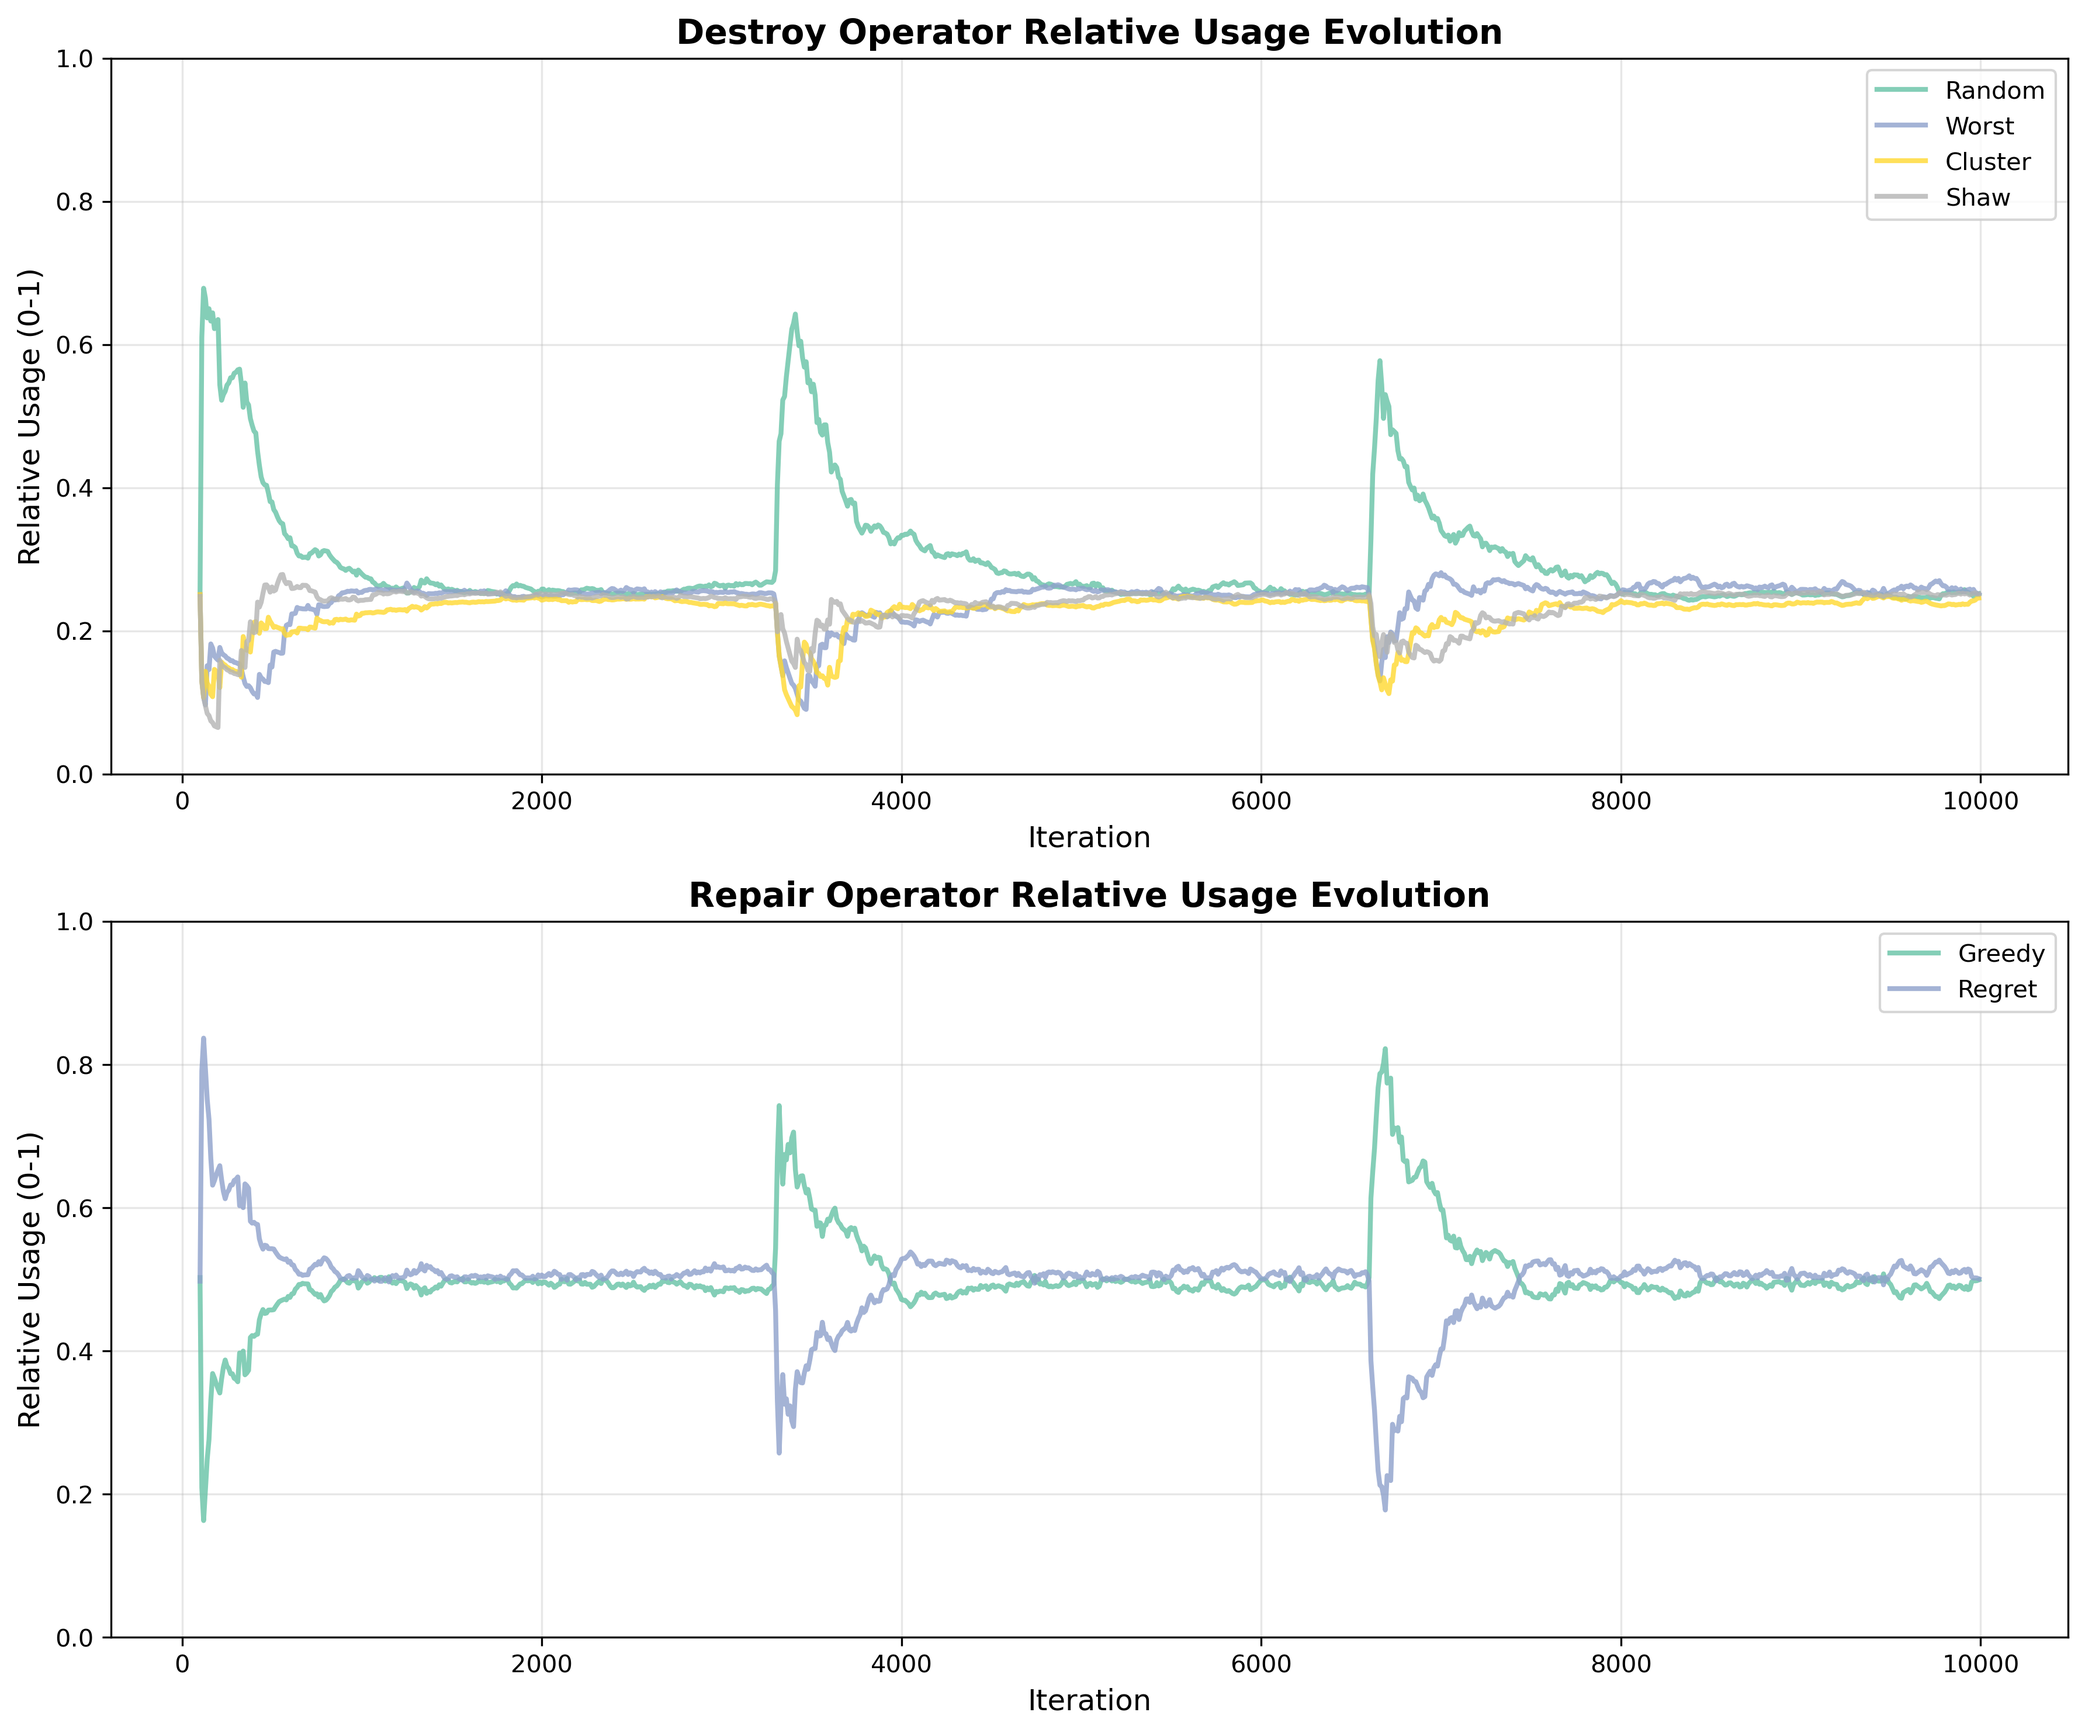
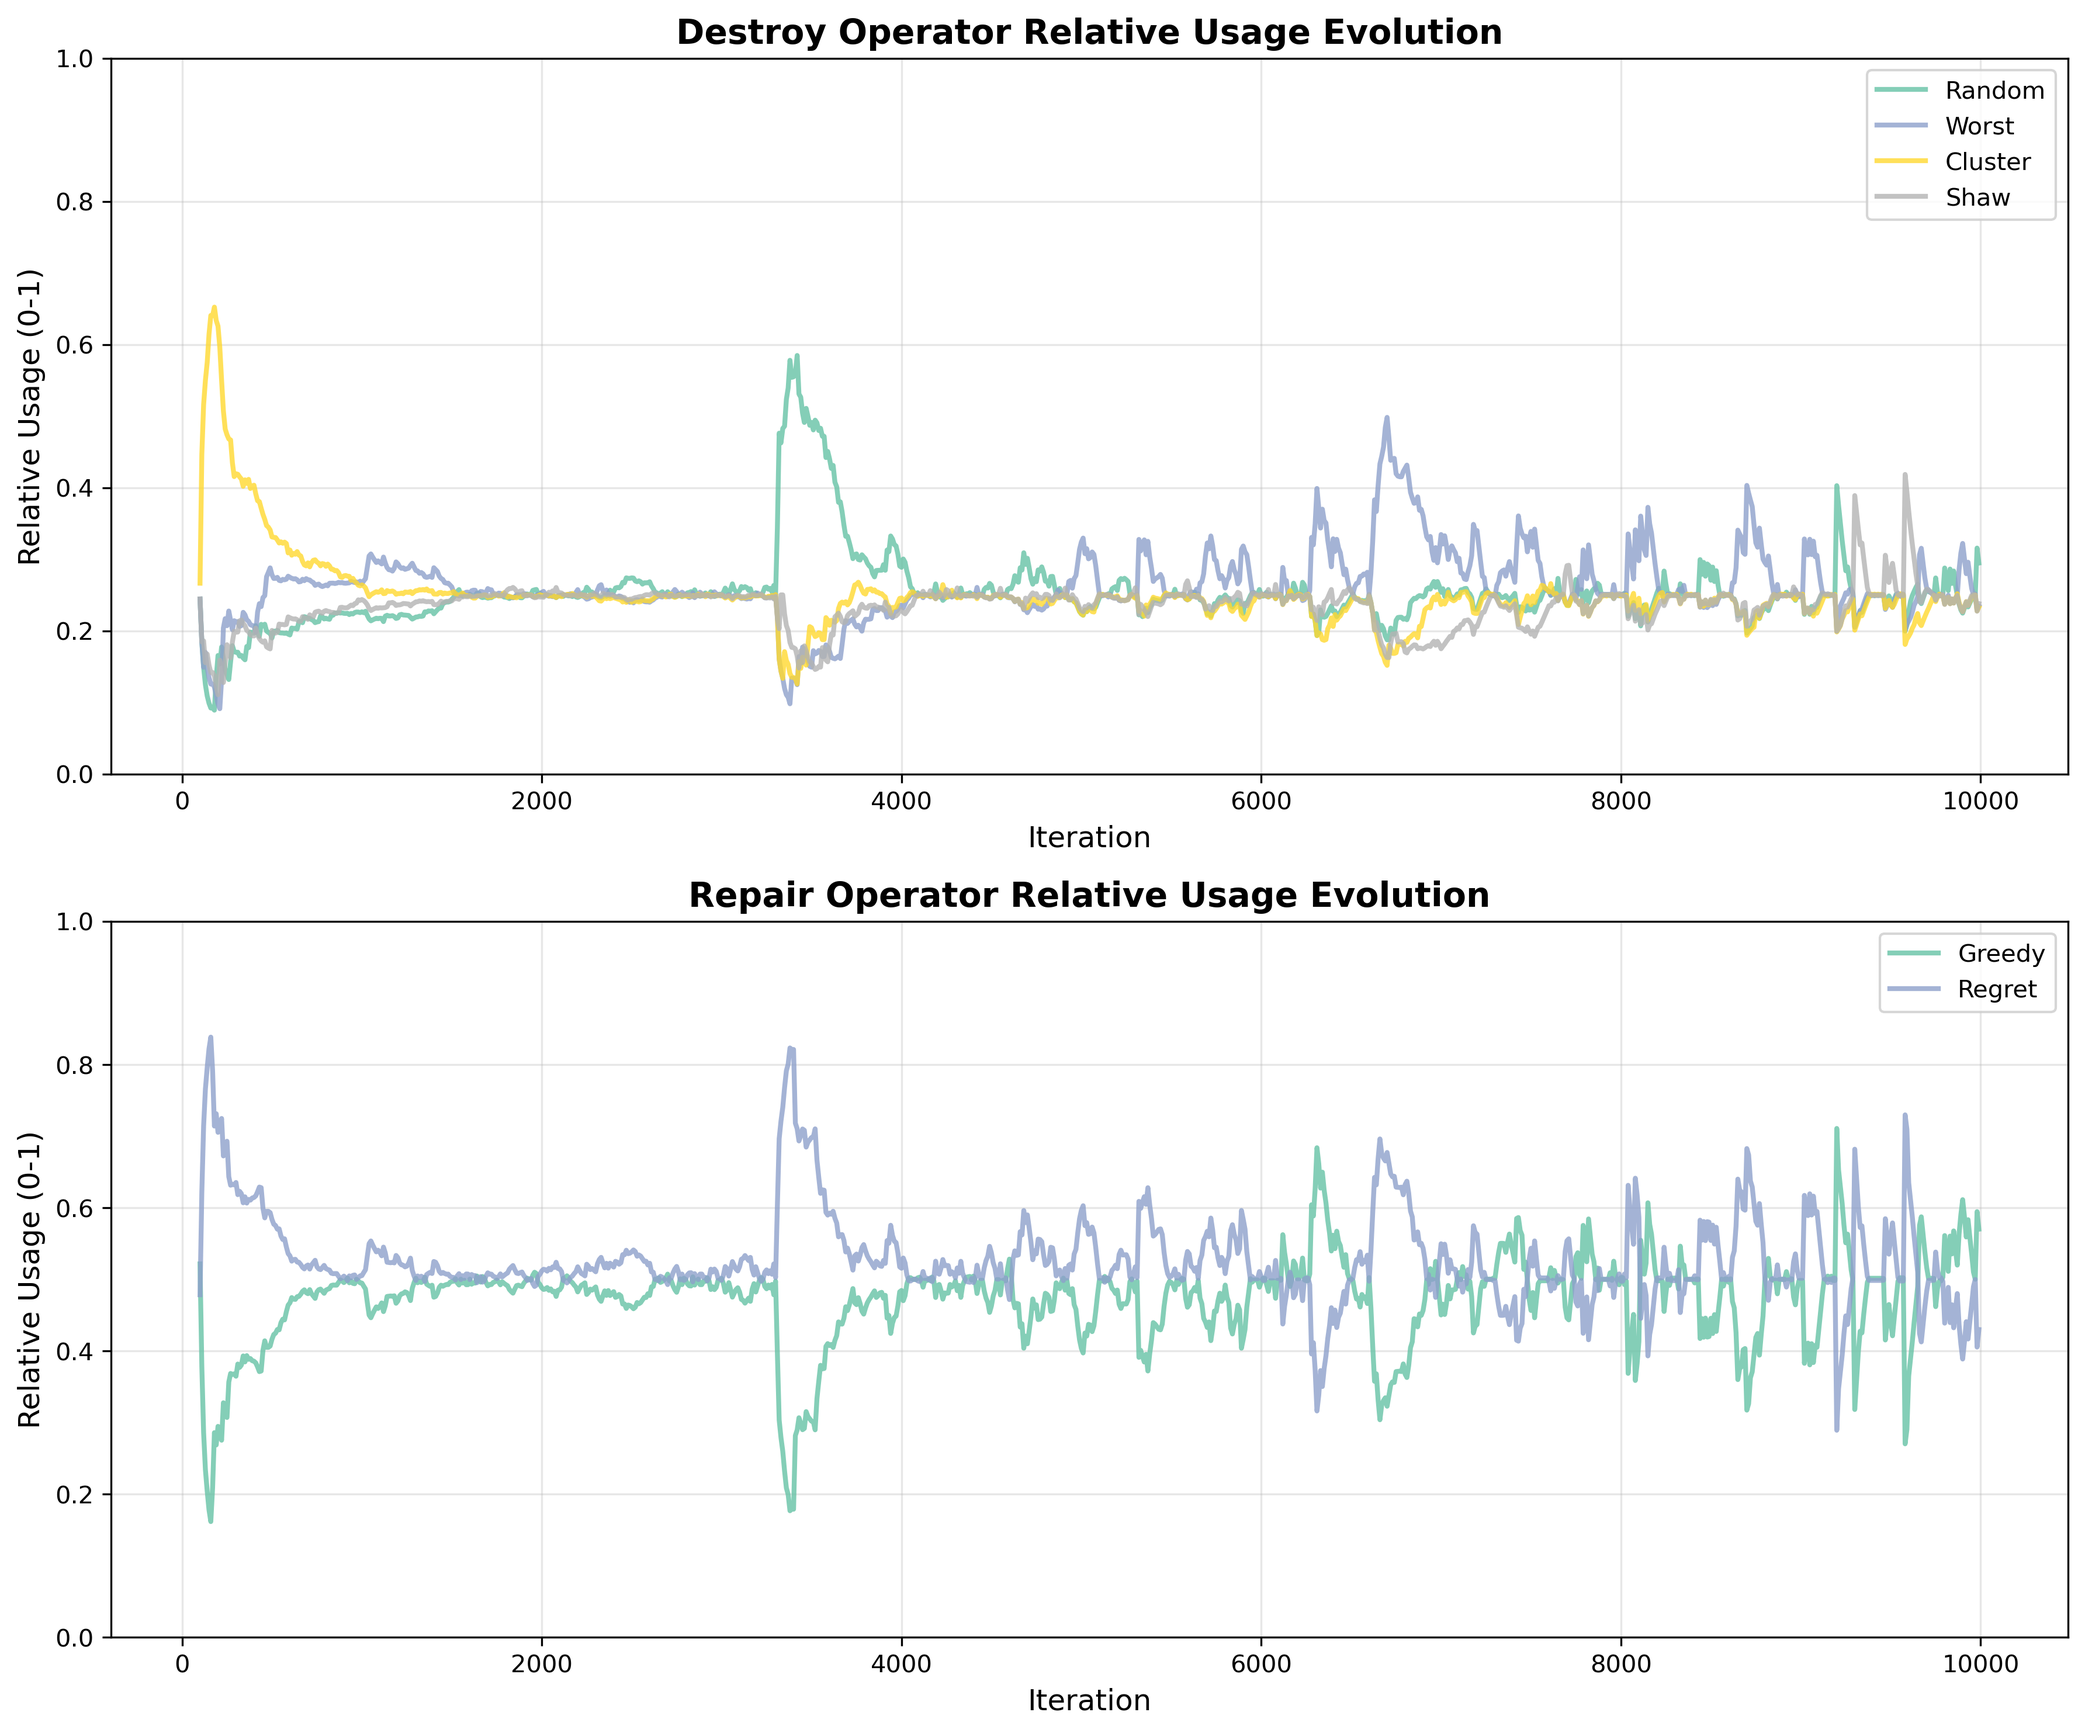
further improvements

diff --git a/Benchmark/feasibility.py b/Benchmark/feasibility.py
@@ -2,7 +2,7 @@ import pandas as pd
 import numpy as np
 import os
 
-def load_vrp_data(customers_file='c1_8_1/customers.csv', vehicles_file='c1_8_1/vehicles.csv', distance_matrix_file='c1_8_1/distance_matrix.csv'):
+def load_vrp_data(customers_file='c1_2_1/customers.csv', vehicles_file='c1_2_1/vehicles.csv', distance_matrix_file='c1_2_1/distance_matrix.csv'):
     # Get the directory of this script
     script_dir = os.path.dirname(os.path.abspath(__file__))
     

diff --git a/Benchmark/alns_SA.py b/Benchmark/alns_SA.py
@@ -648,7 +648,7 @@ def run_alns():
             )
             evaluate_solution(current_sol, dist_matrix, cust_addr_idx)
             iter_no_improve = 0
-            curr_temp = START_TEMPERATURE * 0.5 # Reheat
+            # curr_temp = START_TEMPERATURE * 0.5 # Reheat
 
         state = agent.get_state(it, MAX_ITERATIONS)
         d_idx = agent.select_action(state, agent.q_destroy)

diff --git a/Benchmark/read_data.py b/Benchmark/read_data.py
@@ -221,7 +221,7 @@ if __name__ == "__main__":
     print("Example: Loading RC208 instance")
     print("=" * 60)
     
-    instance = load_solomon_instance('data/C1_8_1.TXT')
+    instance = load_solomon_instance('data/r106.TXT')
     print(f"\n{instance}")
     print(f"\nDepot: x={instance.depot['x']}, y={instance.depot['y']}")
     print(f"First 5 customers:")
